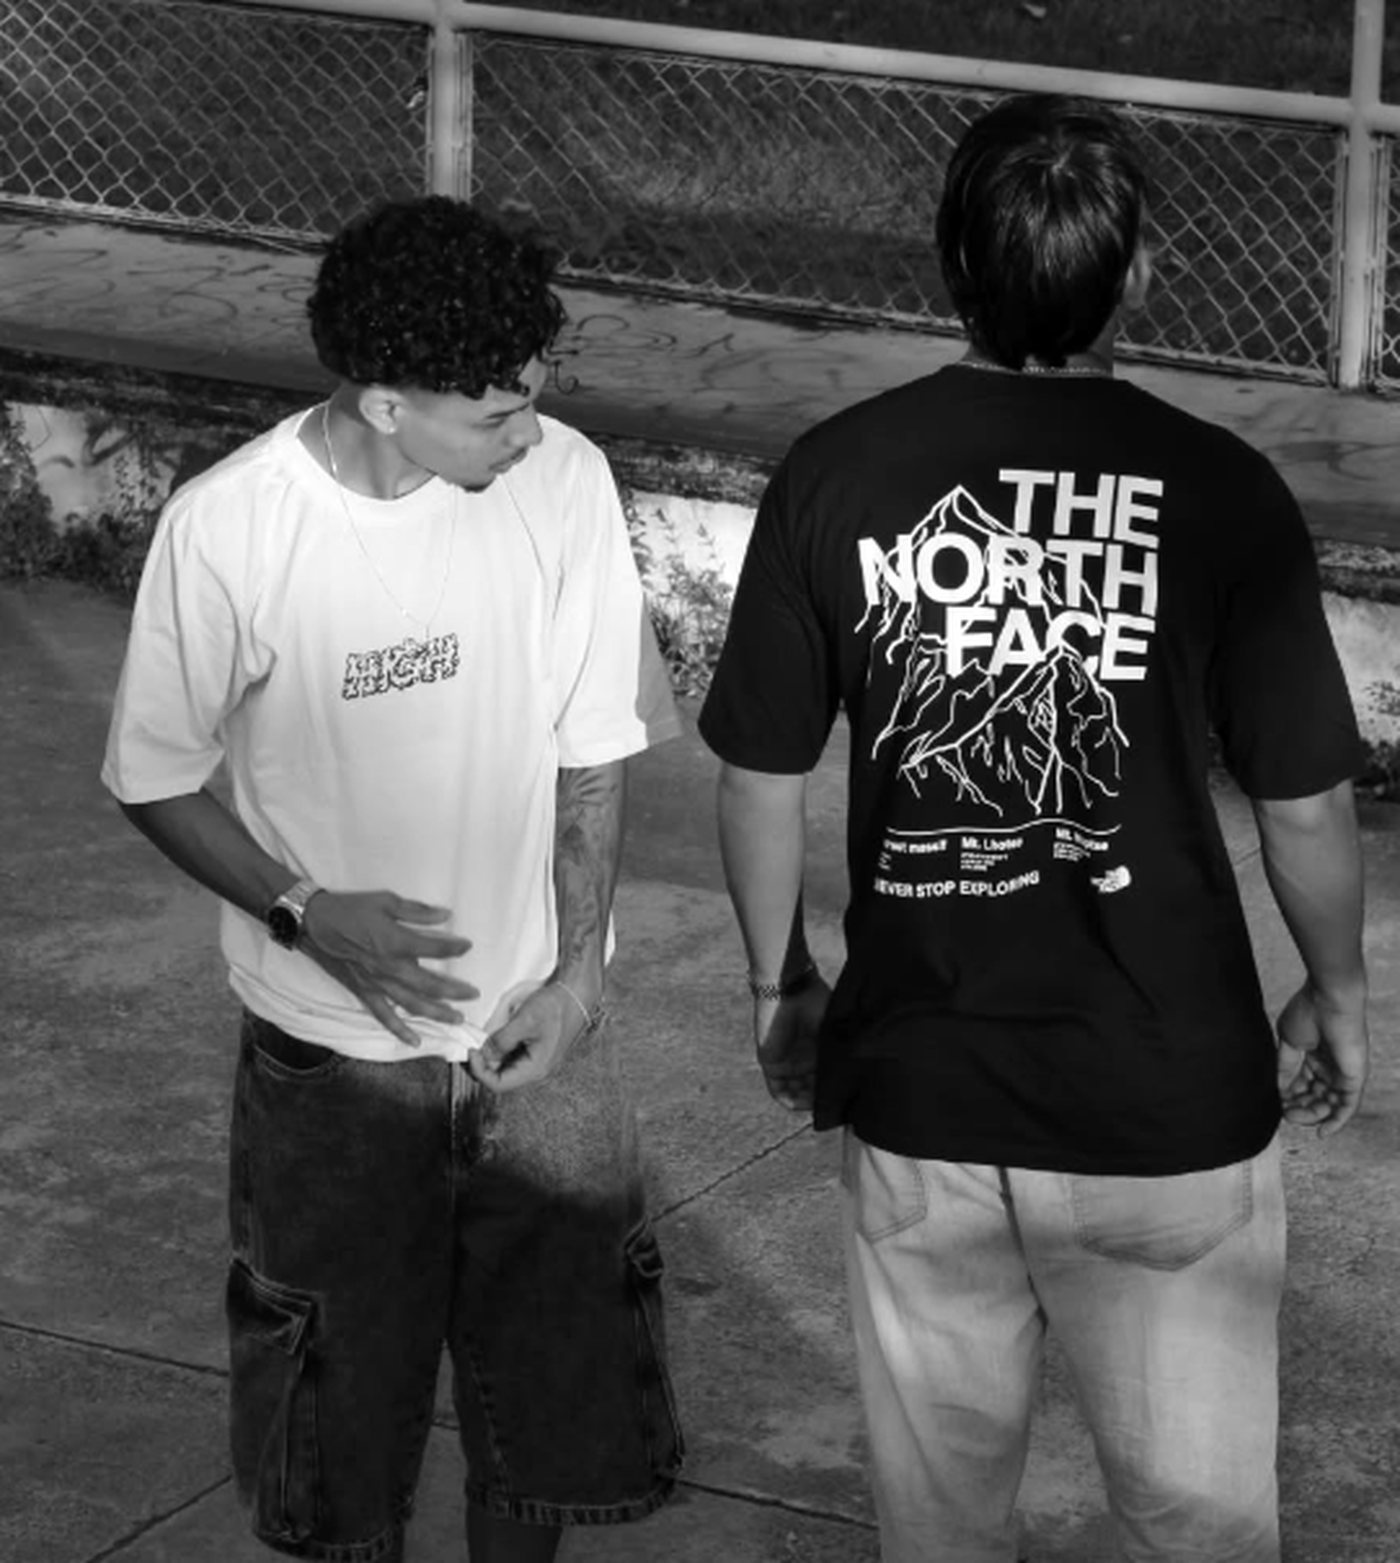
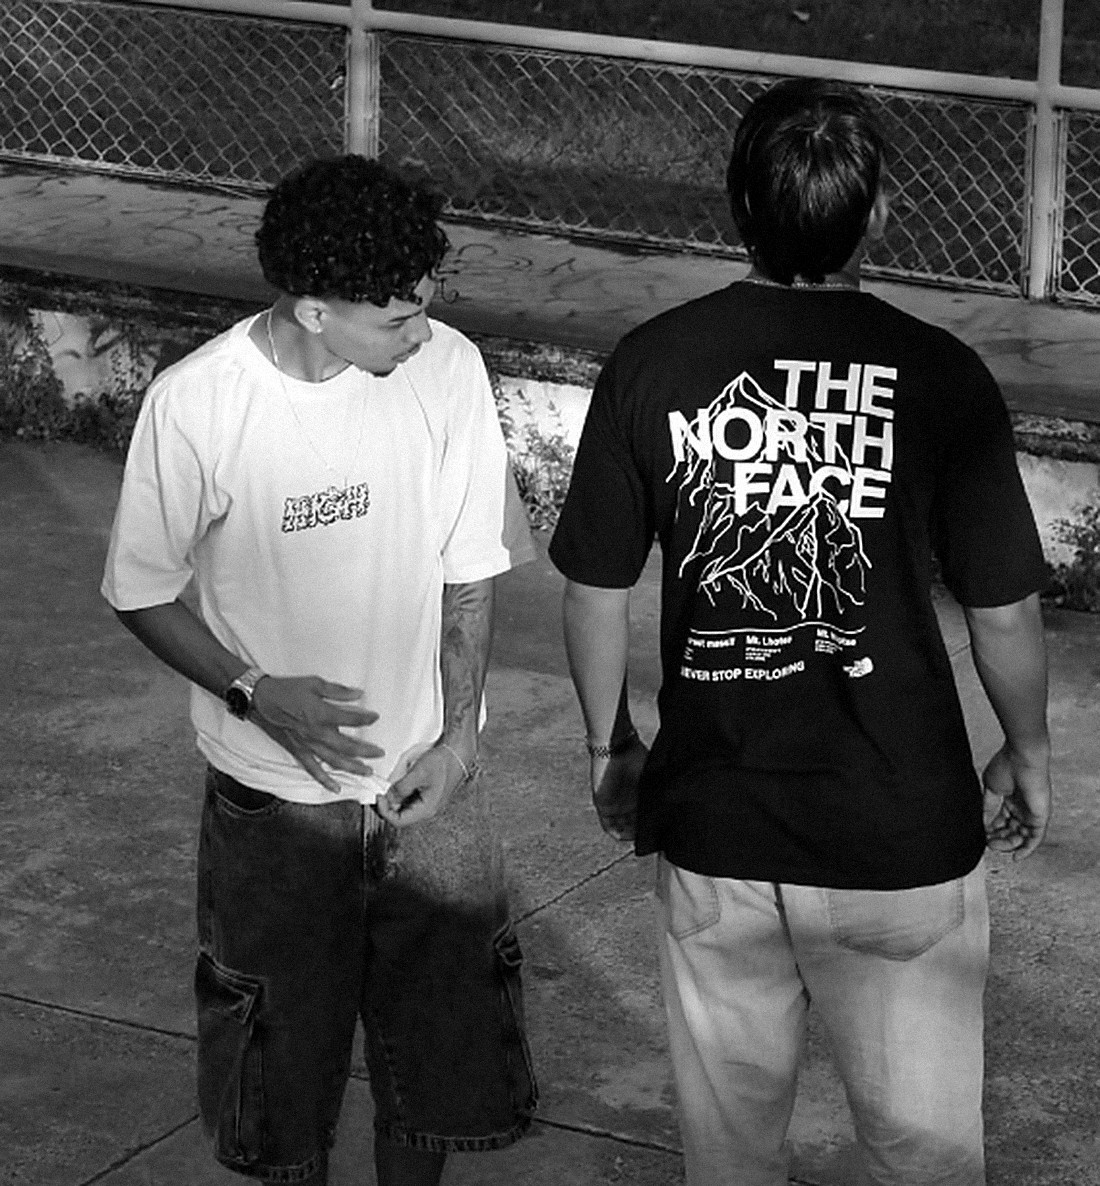
Melhora a nitidez da foto do topo
Recorte mais justo, menos ampliacao, mascara de nitidez e grao fino.
A foto tambem para de esticar em telas acima de 1560px.

Claude-Session: https://claude.ai/code/session_015uRzQCckMuo8vShj4MKwY6

diff --git a/index.html b/index.html
@@ -317,6 +317,8 @@ footer a:hover{text-decoration:underline;text-underline-offset:4px}
   footer .wrap{grid-template-columns:auto 1fr 1fr;justify-items:start;text-align:left;padding-block:52px}
 }
 @media(min-width:1080px){ .grid{grid-template-columns:repeat(4,1fr)} }
+/* em telas muito largas a foto para de esticar, para nao perder nitidez */
+@media(min-width:1560px){ .hero-photo{width:880px} }
 @media(prefers-reduced-motion:reduce){
   *{transition:none!important;animation:none!important}
   .r1,.r2,.r3,.r4,.r5,.card,.bar img{opacity:1!important;transform:none!important}
